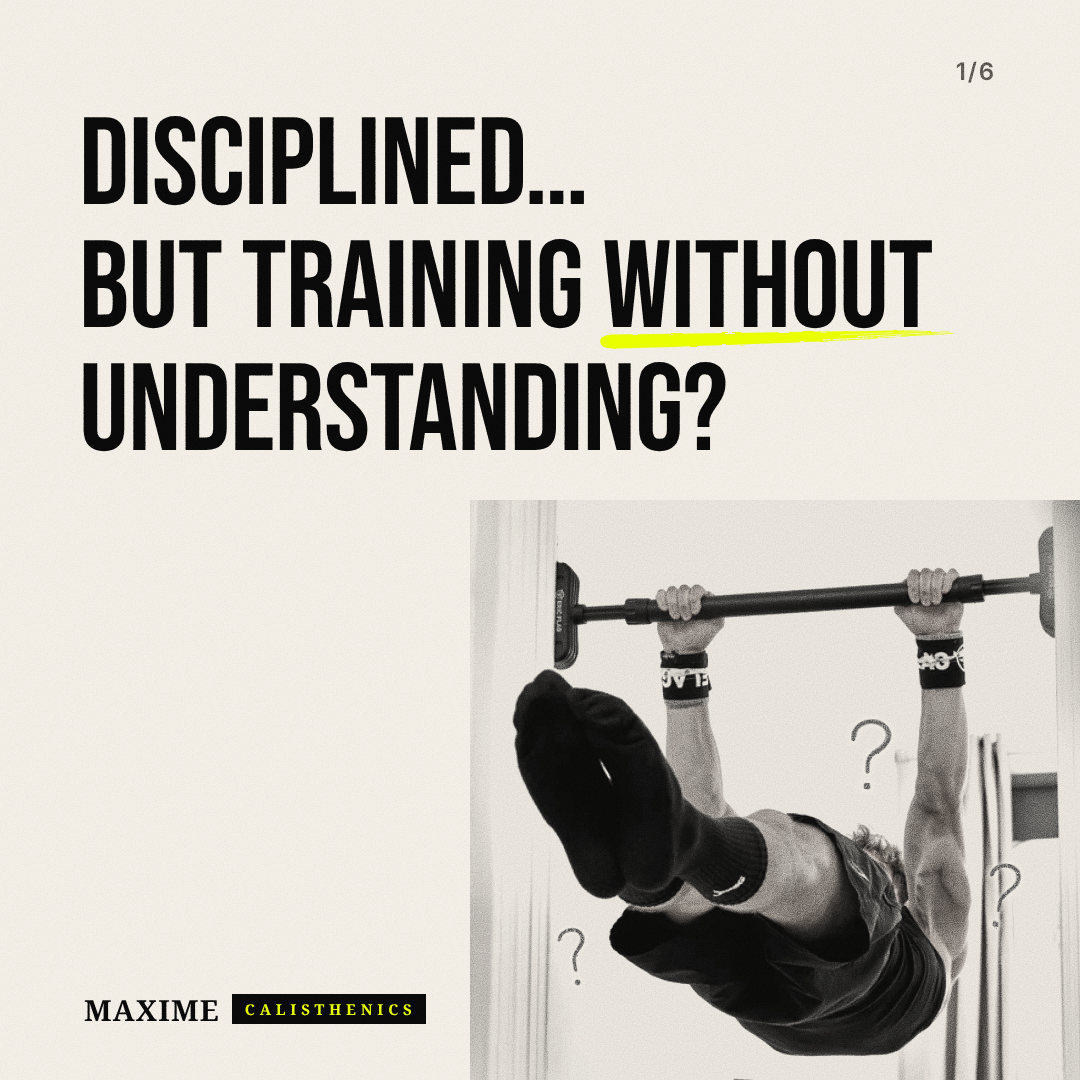
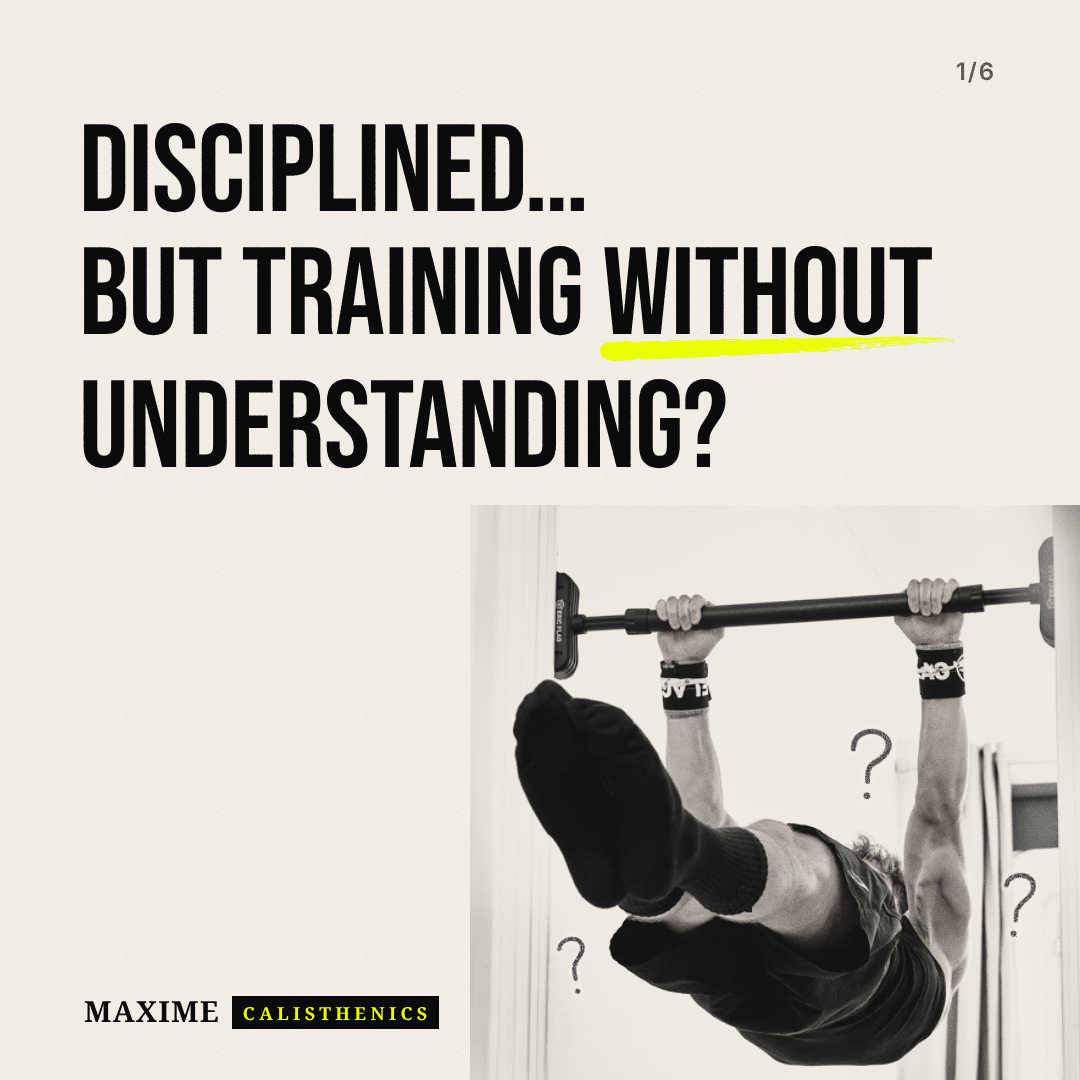
Carousel C: fixes from the adversarial check on card 1 and the series
Card 1: crop clears the shelf, shoulder mark moved onto clean wall, tone curve
rolls highlights off instead of clipping the wall, the photo carries its own
lighter grain, thicker brush stroke with more room above line 3, rounder pencil
dots, headline aligned with the other cards. The sock swooshes are painted out
in a separate -nologo copy of the photo (apparel only, original kept).

Series: covers sit above the page grain so they stay clean; the CALISTHENICS
tab is larger (readable in the feed) and optically centred on MAXIME.

Claude-Session: https://claude.ai/code/session_01Nneob7TcmMdZxcPFgKJ9Kt

diff --git a/motion-ad/video/src/carousel/Editorial.tsx b/motion-ad/video/src/carousel/Editorial.tsx
@@ -61,7 +61,19 @@ const GRAIN =
 const Wordmark: React.FC = () => (
   <div style={{position: 'absolute', left: M, top: 994, display: 'flex', alignItems: 'center', gap: 12}}>
     <span style={{fontFamily: SERIF, fontWeight: 700, fontSize: 29, lineHeight: 1, letterSpacing: '0.04em', color: E.ink}}>MAXIME</span>
-    <span style={{background: E.ink, padding: '8px 9px 7px 13px', fontFamily: SERIF, fontWeight: 700, fontSize: 15, lineHeight: 1, letterSpacing: '0.32em', color: E.acid}}>
+    <span
+      style={{
+        background: E.ink,
+        padding: '8px 7px 7px 11px',
+        fontFamily: SERIF,
+        fontWeight: 700,
+        fontSize: 18,
+        lineHeight: 1,
+        letterSpacing: '0.24em',
+        color: E.acid,
+        transform: 'translateY(2px)',
+      }}
+    >
       CALISTHENICS
     </span>
   </div>
@@ -69,7 +81,9 @@ const Wordmark: React.FC = () => (
 
 type P = {index: number; total: number};
 
-const Card: React.FC<P & {children: React.ReactNode}> = ({index, total, children}) => (
+// Overlay grain is strongest on midtones, so photos and covers sit in `front`, above
+// the page grain: covers stay clean, the hook photo gets its own lighter grain.
+const Card: React.FC<P & {children: React.ReactNode; front?: React.ReactNode}> = ({index, total, children, front}) => (
   <AbsoluteFill style={{background: E.bg, overflow: 'hidden'}}>
     {children}
     <div style={{position: 'absolute', right: M, top: 58, ...small(24, E.muted, 600), letterSpacing: '0.08em'}}>
@@ -77,6 +91,7 @@ const Card: React.FC<P & {children: React.ReactNode}> = ({index, total, children
     </div>
     <Wordmark />
     <AbsoluteFill style={{backgroundImage: GRAIN, opacity: 0.25, mixBlendMode: 'overlay', pointerEvents: 'none'}} />
+    {front}
   </AbsoluteFill>
 );
 
@@ -134,7 +149,7 @@ const Brush: React.FC<{children: React.ReactNode}> = ({children}) => (
     <svg
       viewBox="0 0 400 30"
       preserveAspectRatio="none"
-      style={{position: 'absolute', left: '-2%', width: '105%', top: '0.765em', height: '0.18em', overflow: 'visible'}}
+      style={{position: 'absolute', left: '-2%', width: '105%', top: '0.76em', height: '0.24em', overflow: 'visible'}}
     >
       <defs>
         <filter id="brush-edge" x="-5%" y="-80%" width="110%" height="260%">
@@ -167,10 +182,11 @@ const Brush: React.FC<{children: React.ReactNode}> = ({children}) => (
 // Three different pencil question marks (not one glyph cloned): graphite double
 // line, uneven pressure, grain, and a faint knock-out so they read on busy ground.
 const QUESTION = [
-  {stem: 'M9 17 C 9 5, 31 2, 32 15 C 33 25, 22 27, 20.5 38 L 21 45', ghost: 'M10.5 16 C 11 6.5, 29.5 4, 30.5 15.5 C 31 24, 23 26.5, 21.5 37', dot: 'M20 55.5 l 2 0.6 l -0.5 1.9 l -1.9 -0.4 Z'},
-  {stem: 'M7 20 C 5 7, 22 1, 31 9 C 39 17, 30 26, 23 30 C 19 32.5, 19 37, 19.5 44', ghost: 'M8.5 18 C 8 8, 22 3.5, 29.5 10 C 36 16.5, 29 24.5, 22.5 28.5', dot: 'M18.6 54 l 2.4 -0.2 l 0.1 2.2 l -2.2 0.3 Z'},
+  {stem: 'M9 17 C 9 5, 31 2, 32 15 C 33 25, 22 27, 20.5 38 L 21 45', ghost: 'M10.5 16 C 11 6.5, 29.5 4, 30.5 15.5 C 31 24, 23 26.5, 21.5 37', dot: 'M19.6 55 c 1.4 -0.8, 2.9 0.2, 2.5 1.5 c -0.4 1.3, -2.2 1.5, -2.8 0.3 c -0.2 -0.6, -0.1 -1.3, 0.3 -1.8 Z'},
+  {stem: 'M7 20 C 5 7, 22 1, 31 9 C 39 17, 30 26, 23 30 C 19 32.5, 19 37, 19.5 44', ghost: 'M8.5 18 C 8 8, 22 3.5, 29.5 10 C 36 16.5, 29 24.5, 22.5 28.5', dot: 'M18.8 53.6 c 1 -0.5, 2.5 -0.3, 2.6 0.9 c 0.1 1.4, -1.3 1.9, -2.4 1.4 c -0.8 -0.4, -1 -1.6, -0.2 -2.3 Z'},
   {stem: 'M10 14 C 13 5, 29 4, 31 14 C 32.5 22, 24 24, 21 31 C 19.5 35, 20 39, 20 43', ghost: 'M11.5 13 C 14.5 6.5, 27.5 5.5, 29.5 14 C 30.5 20.5, 24 23, 21.5 29', dot: 'M19 53 c 1.2 -0.6, 2.4 0, 2.2 1.2 c -0.3 1.1, -1.8 1.3, -2.3 0.3 Z'},
 ];
+const GRAPHITE = '#2C2C2C';
 const PencilQ: React.FC<{x: number; y: number; rot: number; h: number; shape: number}> = ({x, y, rot, h, shape}) => {
   const q = QUESTION[shape];
   const id = `pencil${shape}`;
@@ -188,14 +204,14 @@ const PencilQ: React.FC<{x: number; y: number; rot: number; h: number; shape: nu
           <feGaussianBlur stdDeviation={1.6} />
         </filter>
       </defs>
-      <g stroke={E.bg} strokeWidth={7} strokeLinecap="round" fill={E.bg} opacity={0.7} filter={`url(#${id}-halo)`}>
+      <g stroke={E.bg} strokeWidth={9} strokeLinecap="round" fill={E.bg} opacity={0.85} filter={`url(#${id}-halo)`}>
         <path d={q.stem} fill="none" />
         <path d={q.dot} />
       </g>
-      <g filter={`url(#${id})`} stroke="#3A3A3A" fill="none" strokeLinecap="round" strokeLinejoin="round">
-        <path d={q.stem} strokeWidth={2.9} opacity={0.85} />
-        <path d={q.ghost} strokeWidth={1.3} opacity={0.5} />
-        <path d={q.dot} strokeWidth={2.6} fill="#3A3A3A" opacity={0.85} />
+      <g filter={`url(#${id})`} stroke={GRAPHITE} fill="none" strokeLinecap="round" strokeLinejoin="round">
+        <path d={q.stem} strokeWidth={3.6} opacity={0.9} />
+        <path d={q.ghost} strokeWidth={1.4} opacity={0.65} />
+        <path d={q.dot} strokeWidth={2.2} fill={GRAPHITE} opacity={0.9} />
       </g>
     </svg>
   );
@@ -203,16 +219,28 @@ const PencilQ: React.FC<{x: number; y: number; rot: number; h: number; shape: nu
 
 // The photo fills the right of the card under the headline and bleeds off the right
 // and bottom edges; it starts clear of the wordmark so the footer stays on bone.
-// Almost grayscale, levels set so the wall lands just under the page tone once
-// multiplied with it (whites ~250, blacks lifted to ~22 so fabric keeps detail).
-const FRAME = {x: 470, y: 500, w: S - 470, h: S - 500};
+// Almost grayscale, then a tone curve that lifts the wall to just under the page tone
+// once multiplied with it, rolling the highlights off instead of clipping them, and
+// lifting the blacks a little so the fabric keeps its detail.
+const FRAME = {x: 470, y: 505, w: S - 470, h: S - 505};
+const TONE = '0.075 0.15 0.27 0.4 0.52 0.64 0.75 0.855 0.94 0.985 1';
 const Hook: React.FC<P> = (p) => {
   const ph = PHOTO_A;
   const at = (x: number, y: number) =>
     ph ? [FRAME.x + (x - ph.origin[0]) * ph.scale, FRAME.y + (y - ph.origin[1]) * ph.scale] : [FRAME.x + x * FRAME.w, FRAME.y + y * FRAME.h];
   const marks = ph?.marks ?? PREVIEW_MARKS;
-  return (
-    <Card {...p}>
+  const photo = (
+    <>
+      <svg width={0} height={0} style={{position: 'absolute'}}>
+        <filter id="photo-tone" colorInterpolationFilters="sRGB">
+          <feColorMatrix type="saturate" values="0.08" />
+          <feComponentTransfer>
+            <feFuncR type="table" tableValues={TONE} />
+            <feFuncG type="table" tableValues={TONE} />
+            <feFuncB type="table" tableValues={TONE} />
+          </feComponentTransfer>
+        </filter>
+      </svg>
       <div style={{position: 'absolute', left: FRAME.x, top: FRAME.y, width: FRAME.w, height: FRAME.h, overflow: 'hidden', background: E.block}}>
         {ph ? (
           <>
@@ -225,10 +253,11 @@ const Hook: React.FC<P> = (p) => {
                 width: ph.size[0] * ph.scale,
                 height: ph.size[1] * ph.scale,
                 maxWidth: 'none',
-                filter: 'grayscale(0.92) brightness(1.179) contrast(0.912)',
+                filter: 'url(#photo-tone)',
               }}
             />
             <div style={{position: 'absolute', inset: 0, background: E.bg, mixBlendMode: 'multiply'}} />
+            <div style={{position: 'absolute', inset: 0, backgroundImage: GRAIN, opacity: 0.1, mixBlendMode: 'overlay'}} />
           </>
         ) : (
           <div style={{position: 'absolute', inset: 0, display: 'flex', alignItems: 'center', justifyContent: 'center', ...small(22, E.muted, 600), letterSpacing: '0.16em'}}>
@@ -240,9 +269,13 @@ const Hook: React.FC<P> = (p) => {
         const [cx, cy] = at(x, y);
         return <PencilQ key={i} x={cx} y={cy} rot={rot} h={[76, 84, 72][i % 3]} shape={i % 3} />;
       })}
-      <div style={{position: 'absolute', left: M - 5, top: 112, display: 'flex', flexDirection: 'column', gap: 14}}>
+    </>
+  );
+  return (
+    <Card {...p} front={photo}>
+      <div style={{position: 'absolute', left: M - 5, top: 119, display: 'flex', flexDirection: 'column', gap: 14}}>
         <div style={head(124)}>DISCIPLINED…</div>
-        <div style={head(124)}>
+        <div style={{...head(124), marginBottom: 10}}>
           BUT TRAINING <Brush>WITHOUT</Brush>
         </div>
         <div style={head(124)}>UNDERSTANDING?</div>
@@ -318,13 +351,15 @@ const SYSTEM = [
   {x: 834, text: 'Weeks & months, planned'},
 ];
 const System: React.FC<P> = (p) => (
-  <Card {...p}>
+  <Card
+    {...p}
+    front={TRIO(500, 400, [246, 540, 834], 14).map((b) => (
+      <Book3D key={b.src} src={b.src} pose={b.pose} filter={covers} />
+    ))}
+  >
     <div style={{position: 'absolute', left: M - 4, top: 120, ...head(100)}}>
       HOW HARD. HOW MUCH. <Mark>WHEN.</Mark>
     </div>
-    {TRIO(500, 400, [246, 540, 834], 14).map((b) => (
-      <Book3D key={b.src} src={b.src} pose={b.pose} filter={covers} />
-    ))}
     {SYSTEM.map((s) => (
       <div key={s.x} style={{position: 'absolute', left: s.x - 140, width: 280, top: 750, textAlign: 'center'}}>
         <div style={{height: 2, background: E.rule, width: 48, margin: '0 auto 16px'}} />
@@ -359,10 +394,12 @@ const Proof: React.FC<P> = (p) => (
 
 // 6 — Offer (11 words)
 const Offer: React.FC<P> = (p) => (
-  <Card {...p}>
-    {TRIO(310, 330, [330, 540, 750], 16).map((b) => (
+  <Card
+    {...p}
+    front={TRIO(310, 330, [330, 540, 750], 16).map((b) => (
       <Book3D key={b.src} src={b.src} pose={b.pose} filter={covers} />
     ))}
+  >
     <div style={{position: 'absolute', left: 0, width: S, top: 512, textAlign: 'center', ...small(28, E.muted)}}>
       <span style={{textDecoration: 'line-through', textDecorationThickness: 2}}>$99.99</span> separately
     </div>

diff --git a/motion-ad/video/src/carousel/photos.ts b/motion-ad/video/src/carousel/photos.ts
@@ -16,12 +16,14 @@ export type Photo = {
 
 // Photo 2: front lever on the door bar, white interior.
 export const PHOTO_A: Photo | null = {
-  src: 'photos/front-lever-door-bar.webp',
+  // The -nologo file is the original with the two sock swooshes painted out
+  // (apparel only; the athlete is untouched). The original sits next to it.
+  src: 'photos/front-lever-door-bar-nologo.webp',
   size: [600, 700],
-  origin: [55, 80],
+  origin: [55, 76],
   scale: 1.22,
   marks: [
-    [490, 404, 12], // right shoulder, in the doorway beside the deltoid
+    [503, 404, 8], // right shoulder, on clean wall beside the deltoid
     [382, 290, 4], // shoulder girdle, between the arms above the head
     [140, 455, -10], // hips, in the gap left of the glutes
   ],

diff --git a/carousel/copy.md b/carousel/copy.md
@@ -106,7 +106,7 @@ Bouton d'action : **Shop Now**.
 
 Photos : seules tes images apparaissent, sans aucune retouche de l'athlète.
 
-- Carte 1 : `motion-ad/photos/front-lever-door-bar.webp` (ta photo 2), presque en noir et blanc, fondue dans le ton du fond, à droite sous le titre. Elle déborde des bords droit et bas, et s'arrête à gauche avant le wordmark. Trois points d'interrogation au crayon, chacun dessiné différemment, près de l'épaule droite, au-dessus de la ceinture scapulaire et à côté des hanches. Le recadrage et la position des points se règlent dans `motion-ad/video/src/carousel/photos.ts`, en pixels de la photo.
+- Carte 1 : ta photo 2, presque en noir et blanc, fondue dans le ton du fond, à droite sous le titre. Le fichier utilisé est `motion-ad/photos/front-lever-door-bar-nologo.webp` : les deux virgules Nike des chaussettes y sont effacées, car le brief n'autorise aucun logo en dehors du wordmark. Seules les chaussettes sont retouchées. L'original `front-lever-door-bar.webp` reste à côté. Elle déborde des bords droit et bas, et s'arrête à gauche avant le wordmark. Trois points d'interrogation au crayon, chacun dessiné différemment, près de l'épaule droite, au-dessus de la ceinture scapulaire et à côté des hanches. Le recadrage et la position des points se règlent dans `motion-ad/video/src/carousel/photos.ts`, en pixels de la photo.
 - Cartes 4 et 6 : les couvertures, en livres 3D, légèrement désaturées.
 - La photo de la carte 1 ne fait que 600×700 px : elle est agrandie de 22 %. Une version en plus haute définition donnerait un rendu plus net.
 
